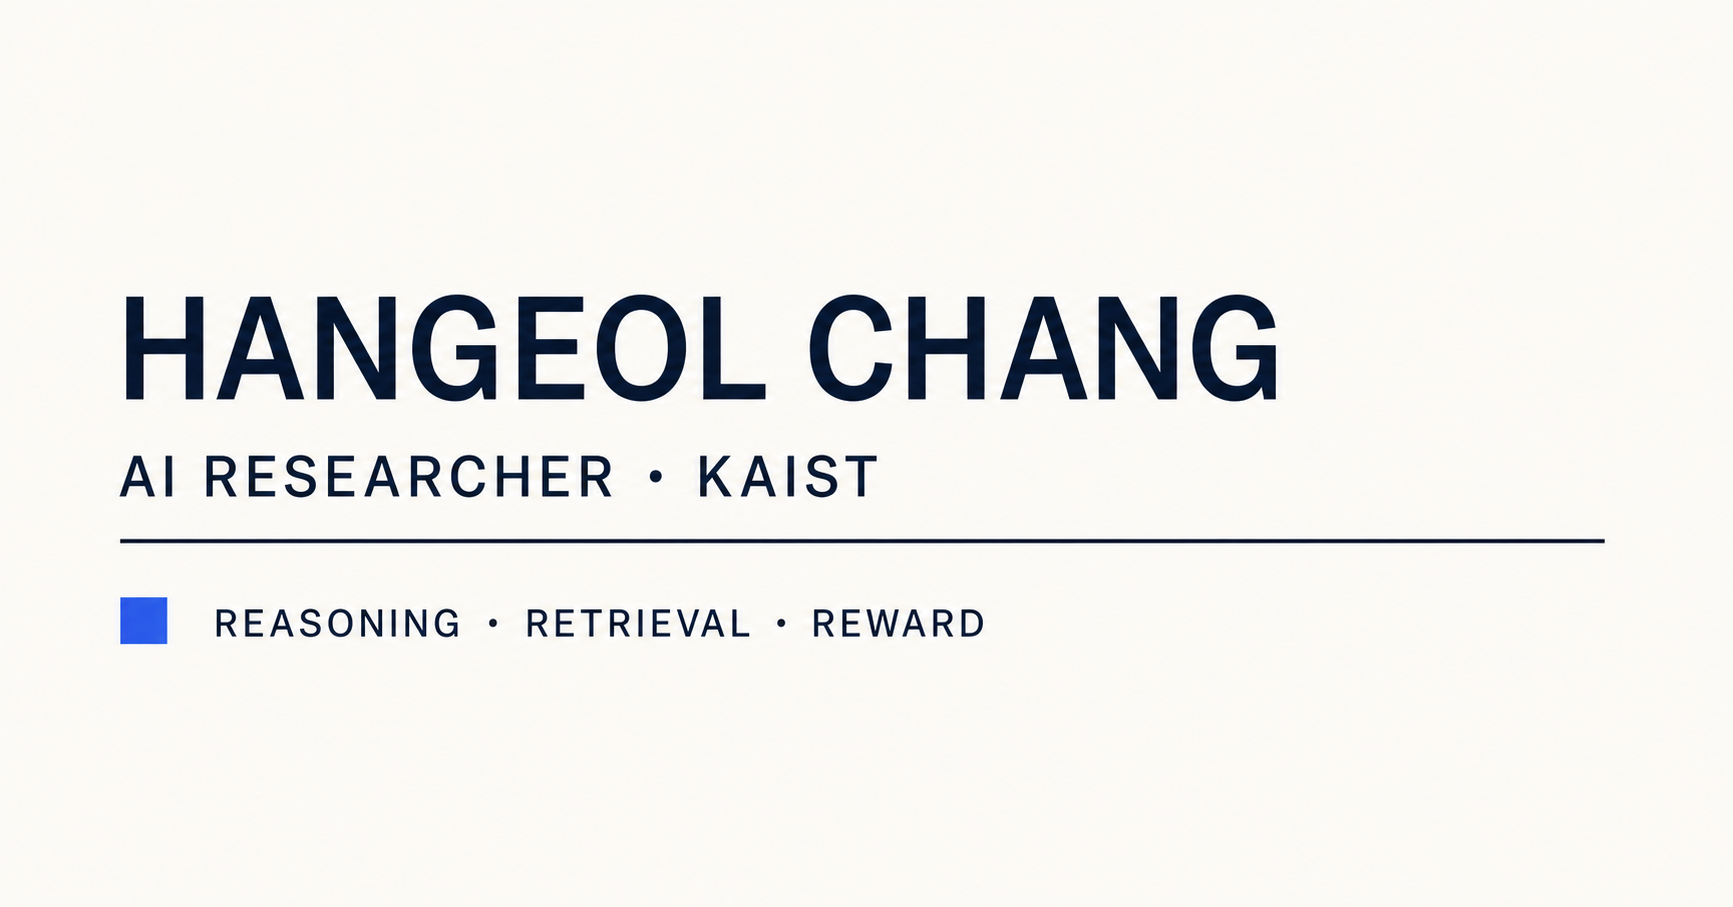
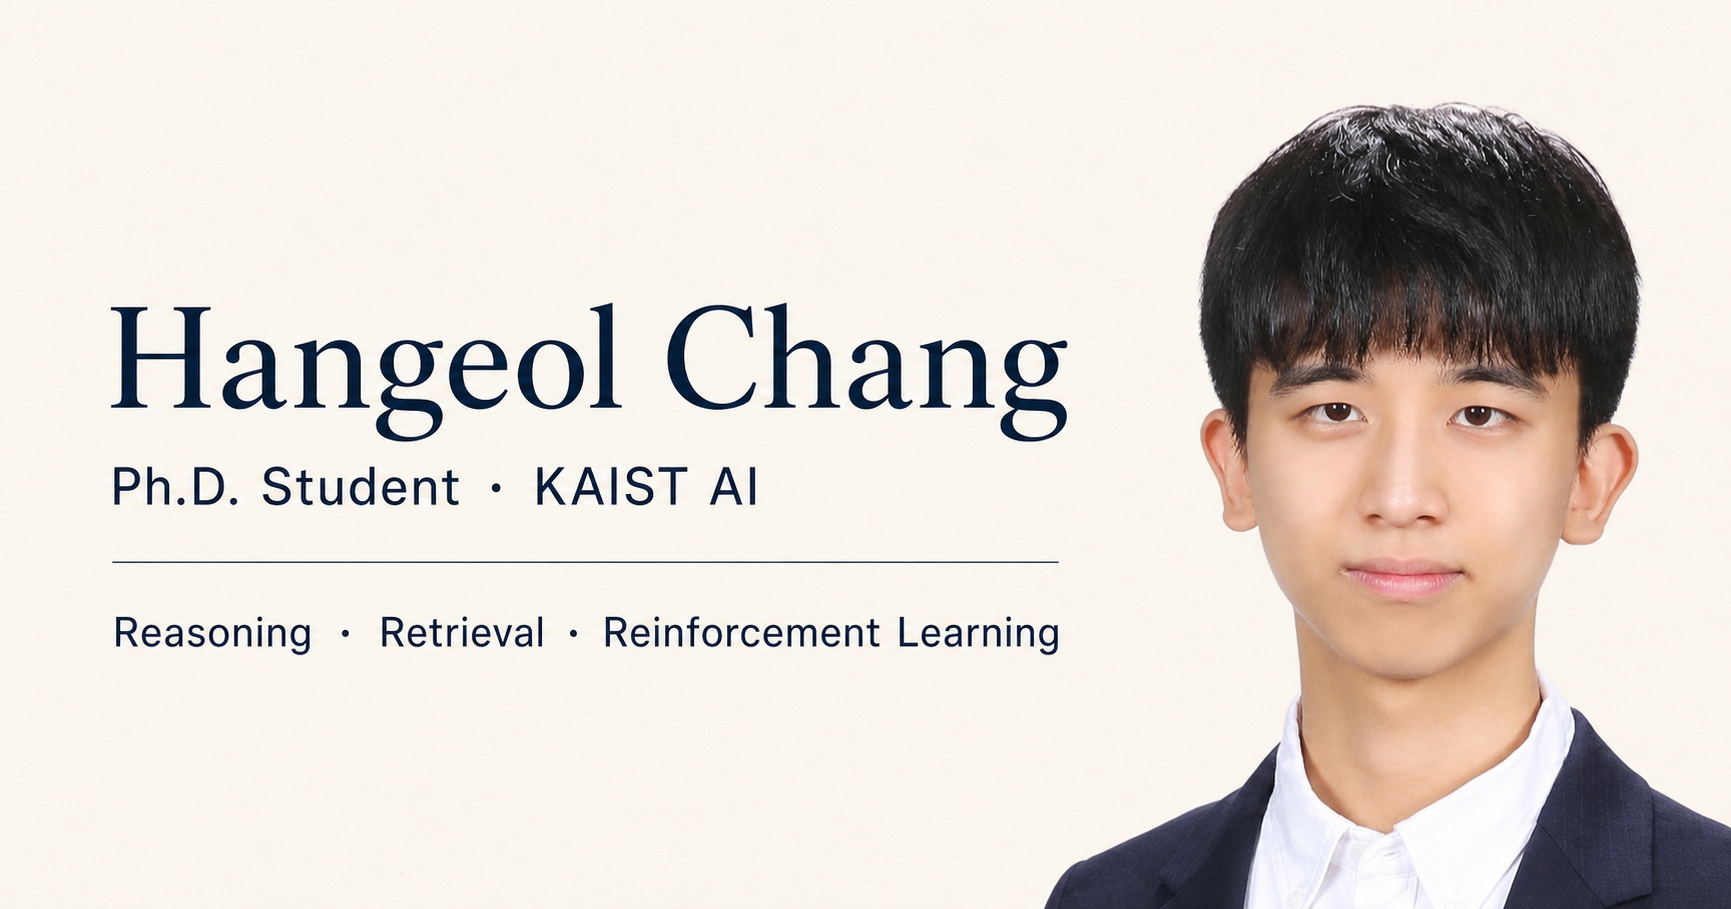
Update social preview card

Changed region(s): [[0.0624, 0.0926, 1.0, 1.0], [0.0624, 0.6483, 0.6239, 0.71]]

diff --git a/app/layout.tsx b/app/layout.tsx
@@ -29,13 +29,13 @@ export async function generateMetadata(): Promise<Metadata> {
       title,
       description,
       type: "website",
-      images: [{ url: "/og.png", width: 1733, height: 907, alt: "Hangeol Chang · AI Researcher at KAIST" }],
+      images: [{ url: "/og.png?v=2", width: 1731, height: 909, alt: "Hangeol Chang · Ph.D. Student at KAIST AI" }],
     },
     twitter: {
       card: "summary_large_image",
       title,
       description,
-      images: ["/og.png"],
+      images: ["/og.png?v=2"],
     },
   };
 }
